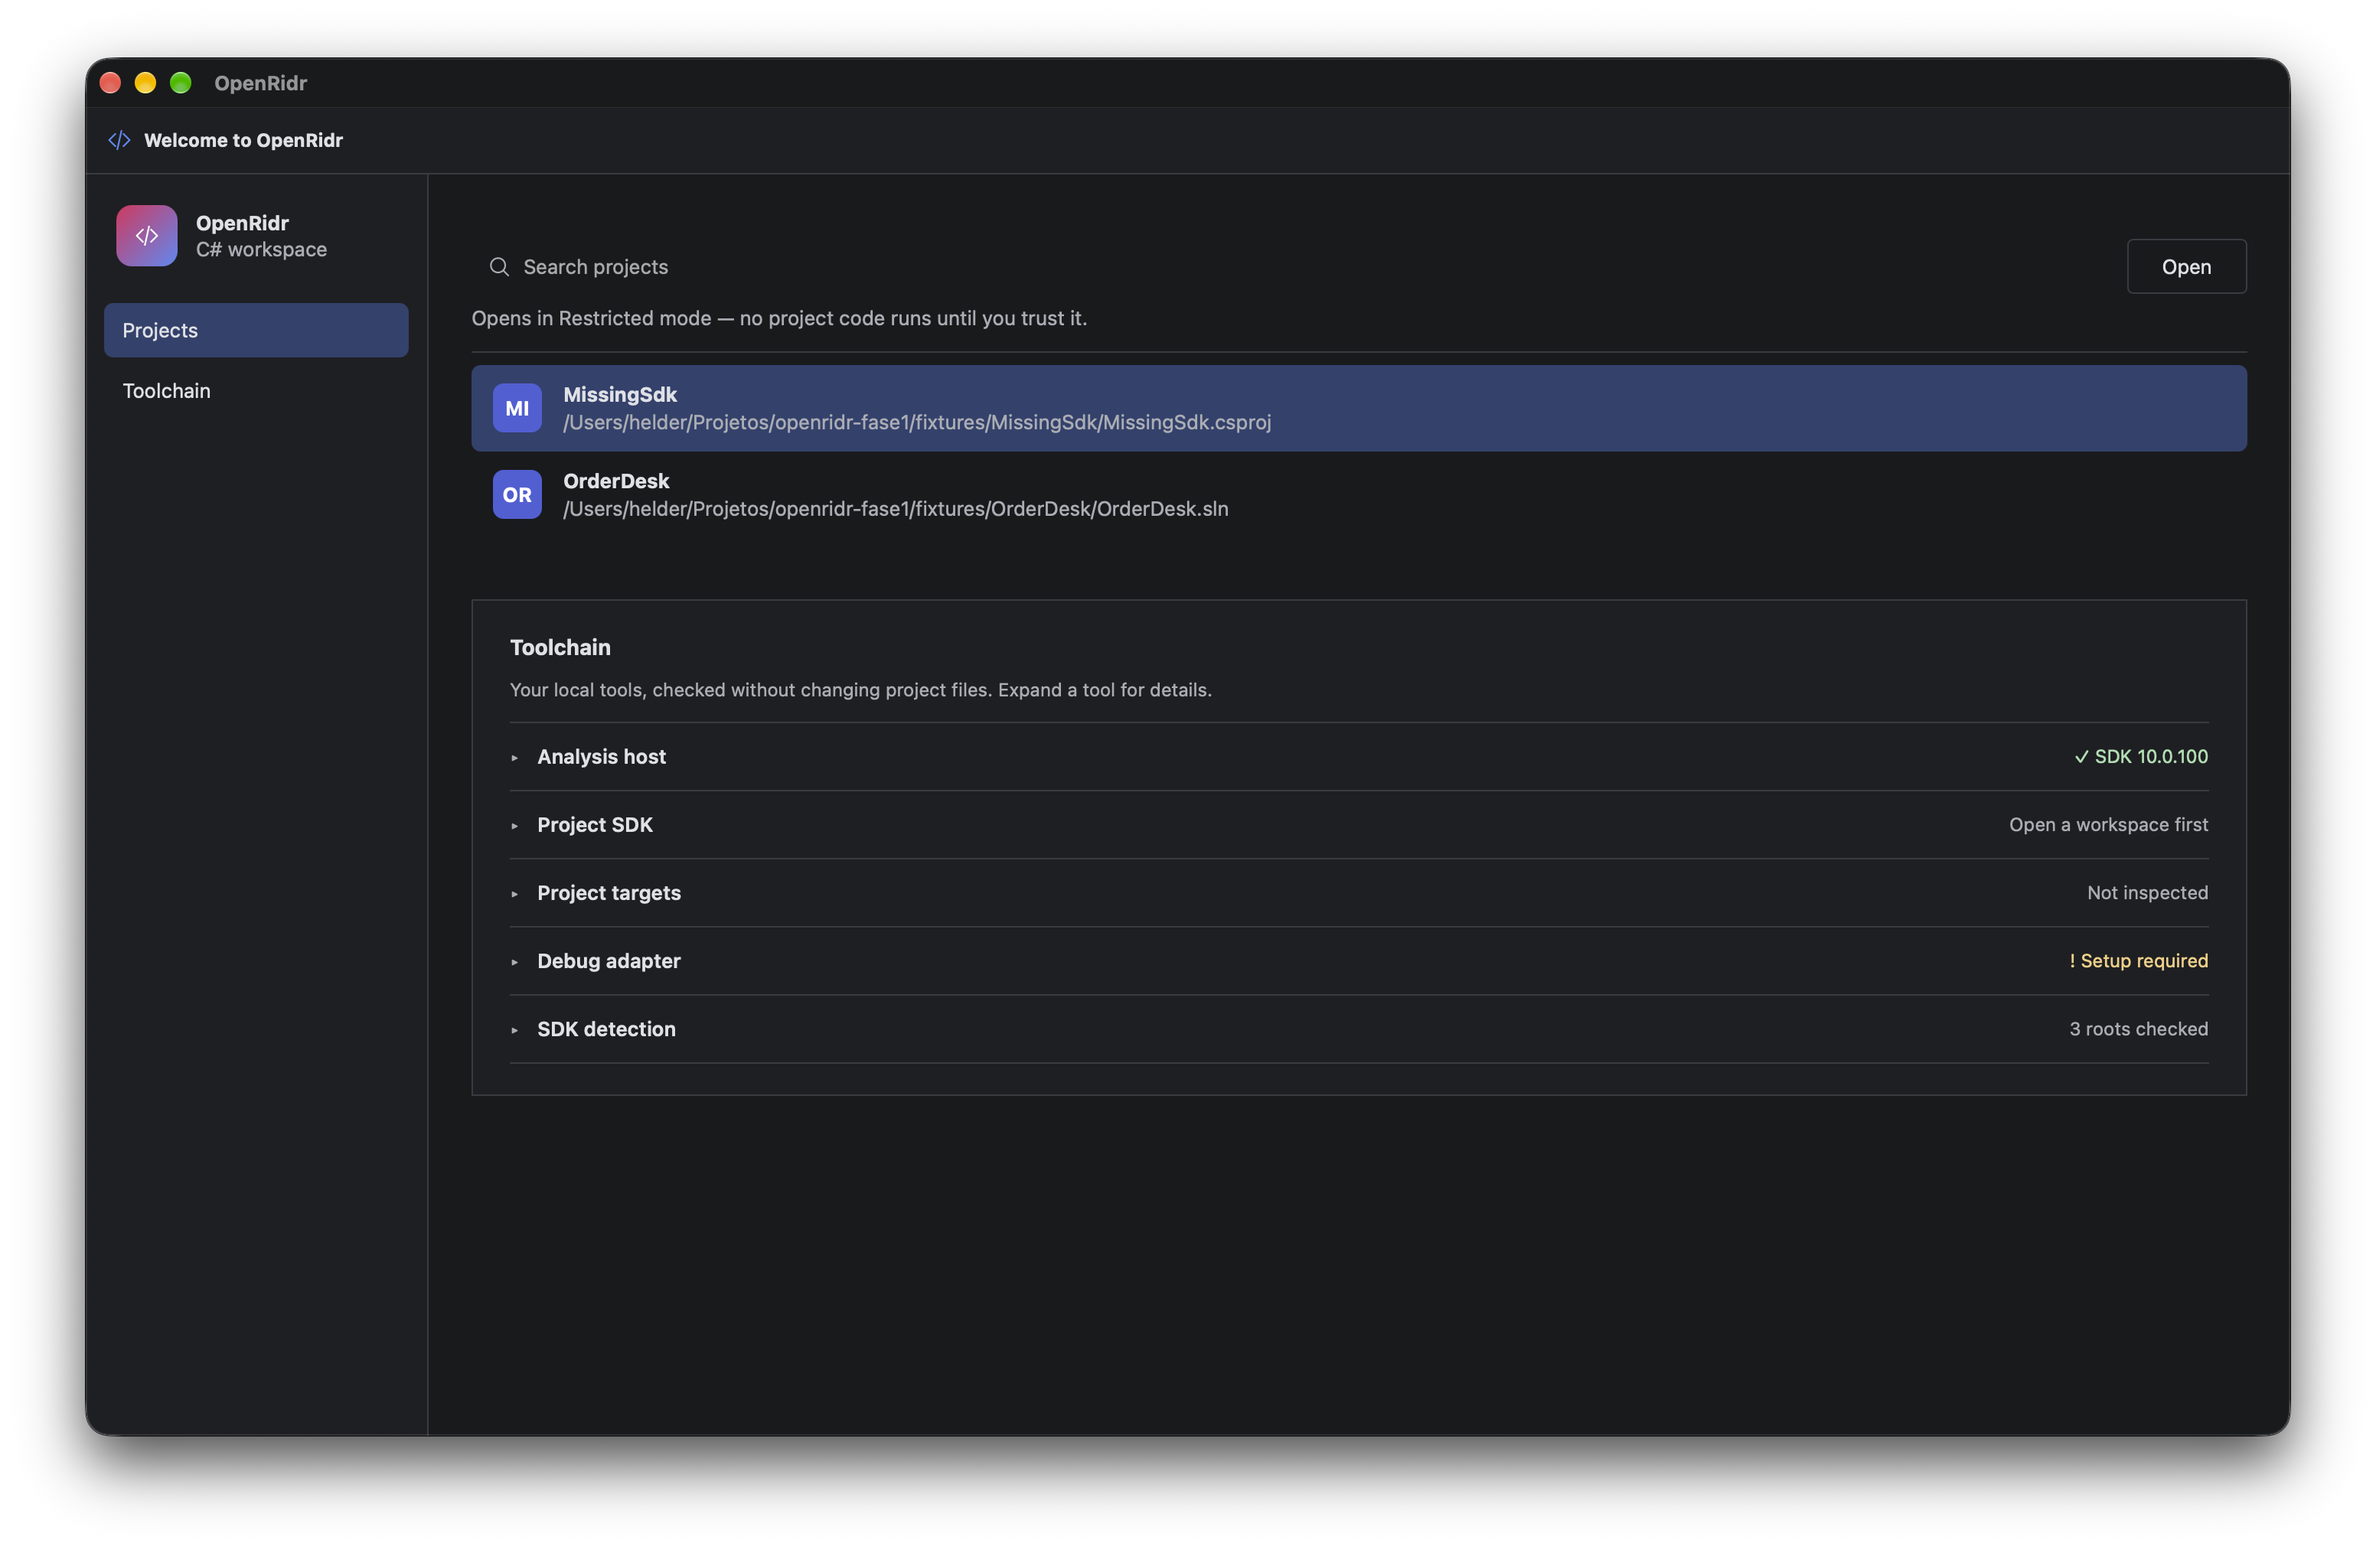
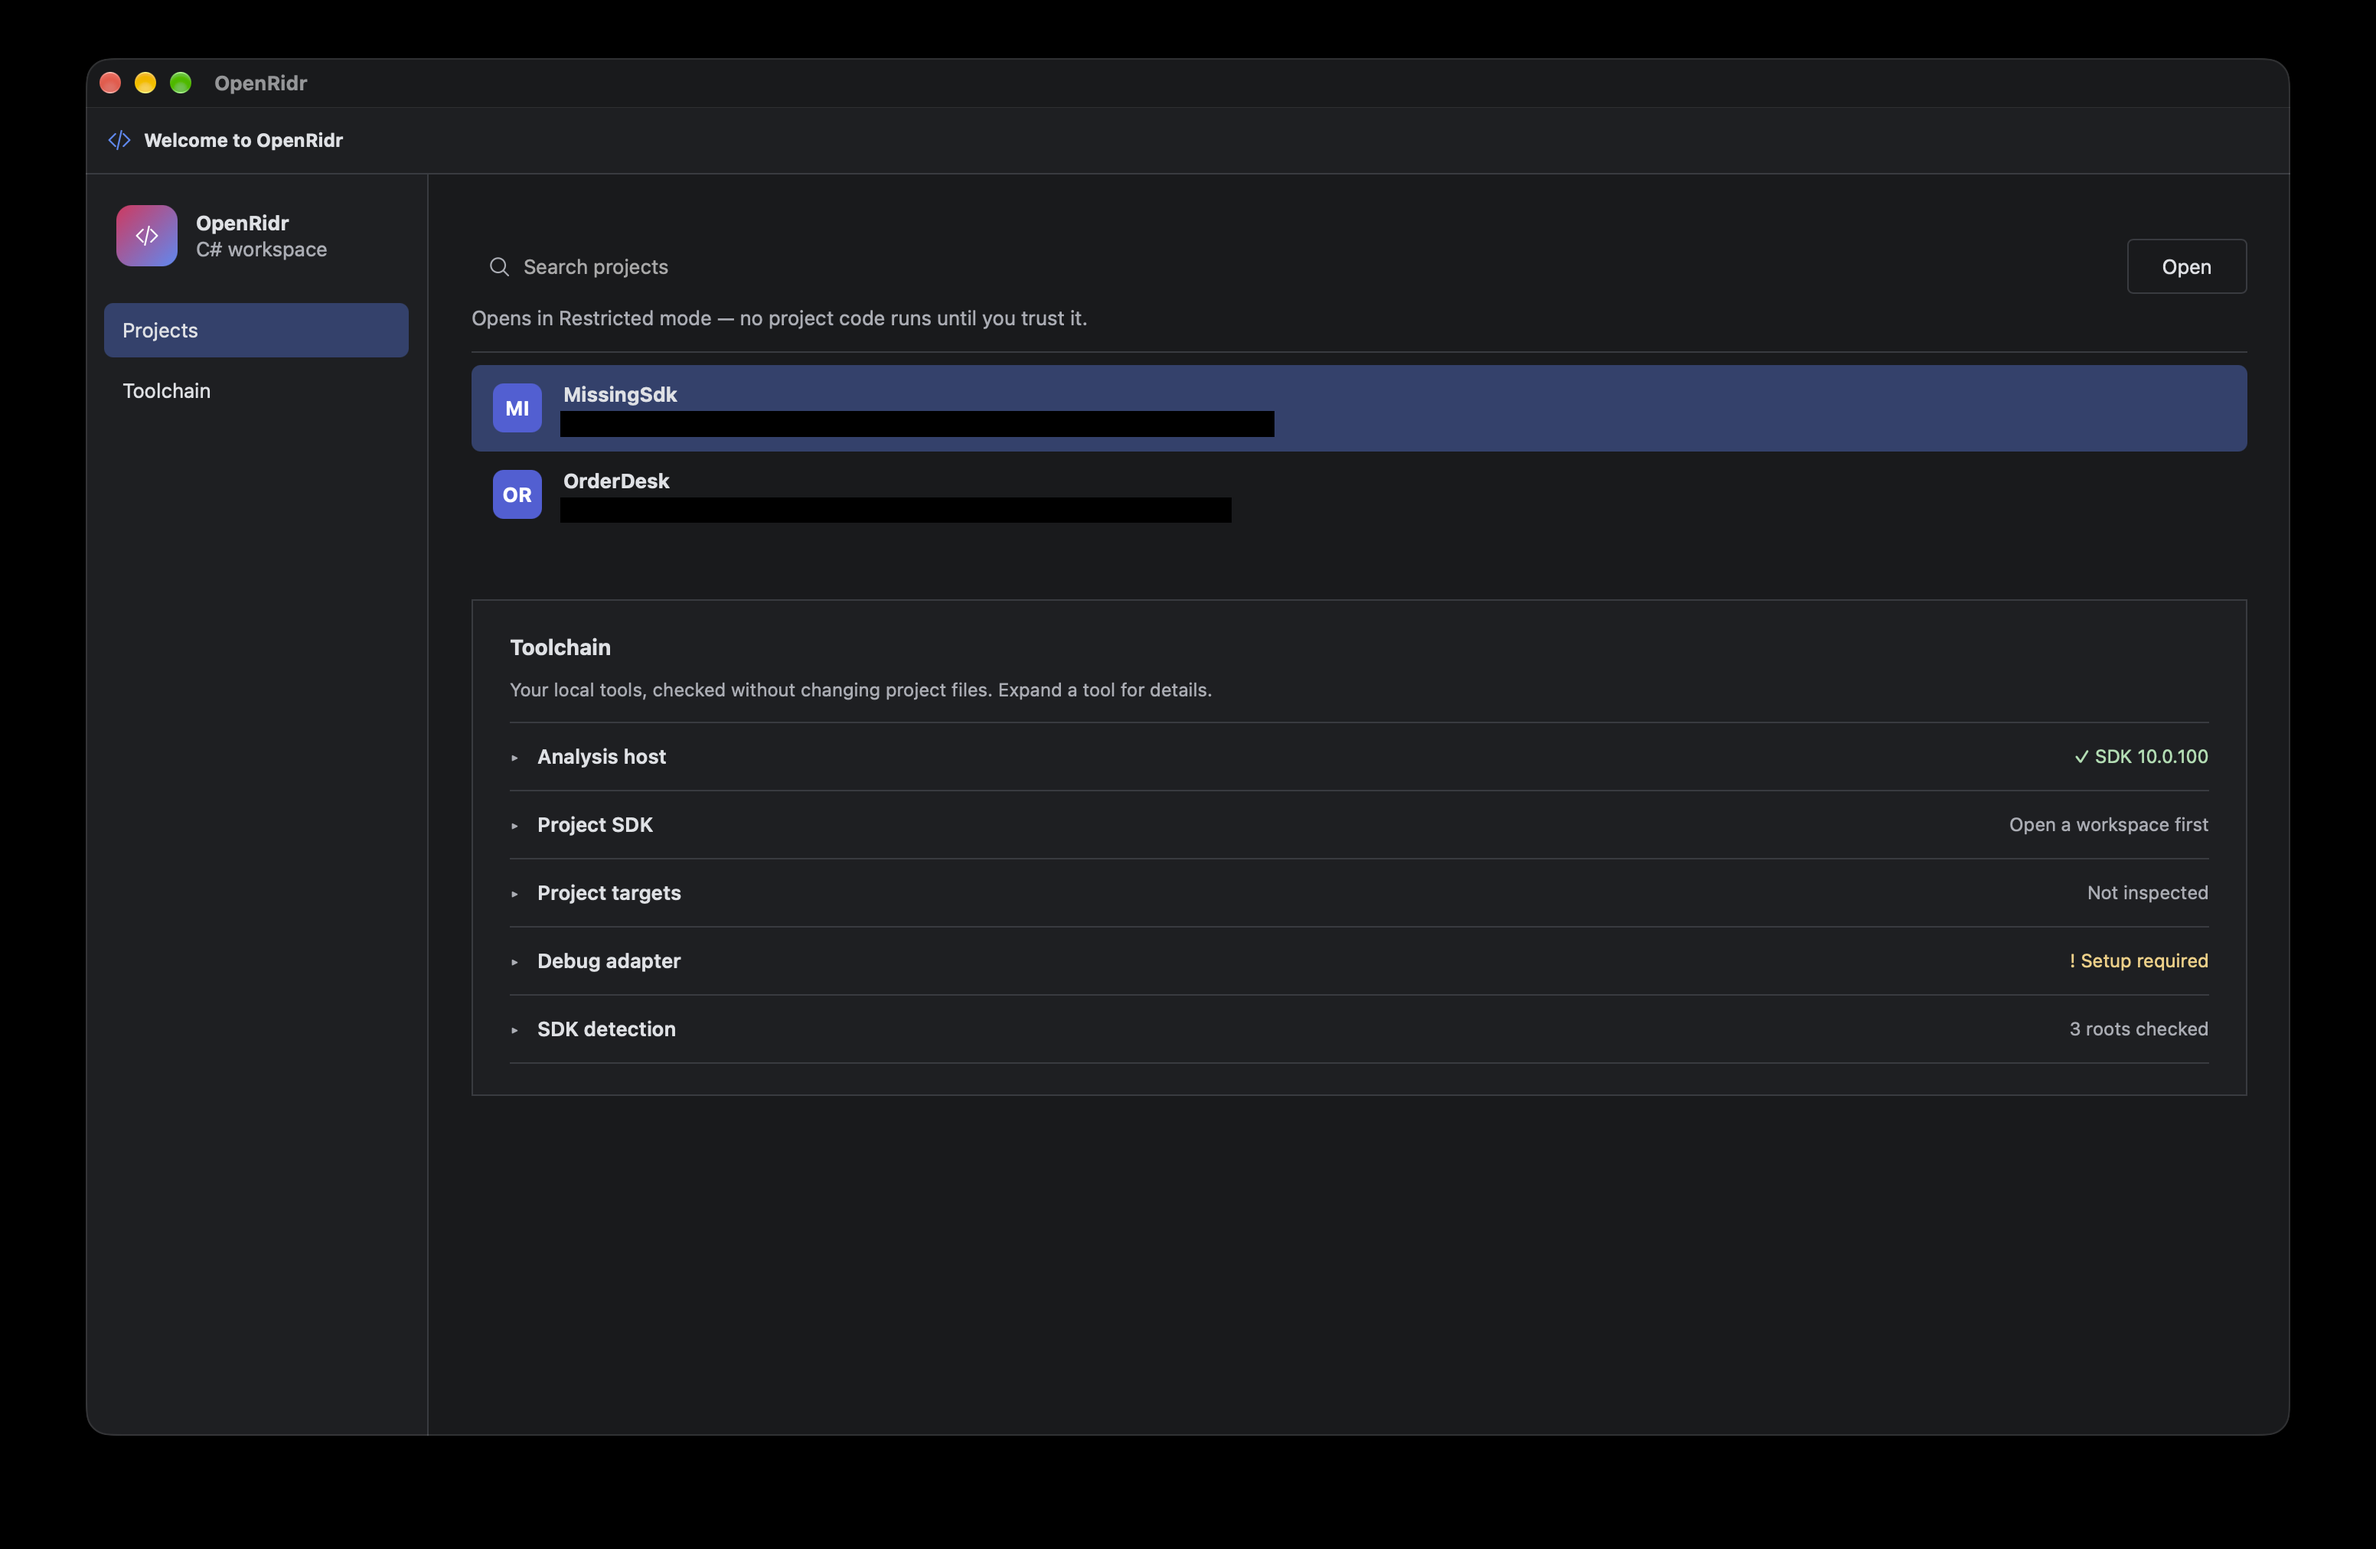
docs(evidence): redact usernames and host from native screenshots

Changed region(s): [[0.0, 0.0, 1.0, 1.0], [0.2188, 0.3113, 0.5312, 0.3424], [0.2188, 0.249, 0.5312, 0.2801]]

diff --git a/docs/evidence/logs/privacy-redaction-2026-10-31.md b/docs/evidence/logs/privacy-redaction-2026-10-31.md
@@ -1,0 +1,11 @@
+# Privacy redaction — native-*.png (2026-10-31)
+
+Revisão independente achou prompt zsh com usuário/host e caminhos pessoais em capturas nativas publicadas.
+
+- Redigidos (caixas pretas sobre palavras detectadas por OCR: helder, MacBook, /Users, /private/var, Air-de): native-00, 07, 08, 09, 17, 18, 19, 20, 47.
+- Verificação por OCR após redação: 0 ocorrências nos nove arquivos.
+- native-26 (OCR limpo, sem alteração).
+
+Histórico local: commits anteriores (ex.: 1e7e123, 6f58add, c37c701, 3092d16) contêm a versão original de native-19/20 com host/usuário no blob. NÃO publicar o branch sem filtrar esses blobs antes (ex.: git filter-repo ou reescrita controlada, decisão do mantenedor).
+
+Fora de escopo deste worker (não gerados por ele): 16-*, 17-*, 18-*, d05, d09, f5, ui-trust-screen e 09/10/m7 do m7-impl. Ver lista na mensagem ao lead.
